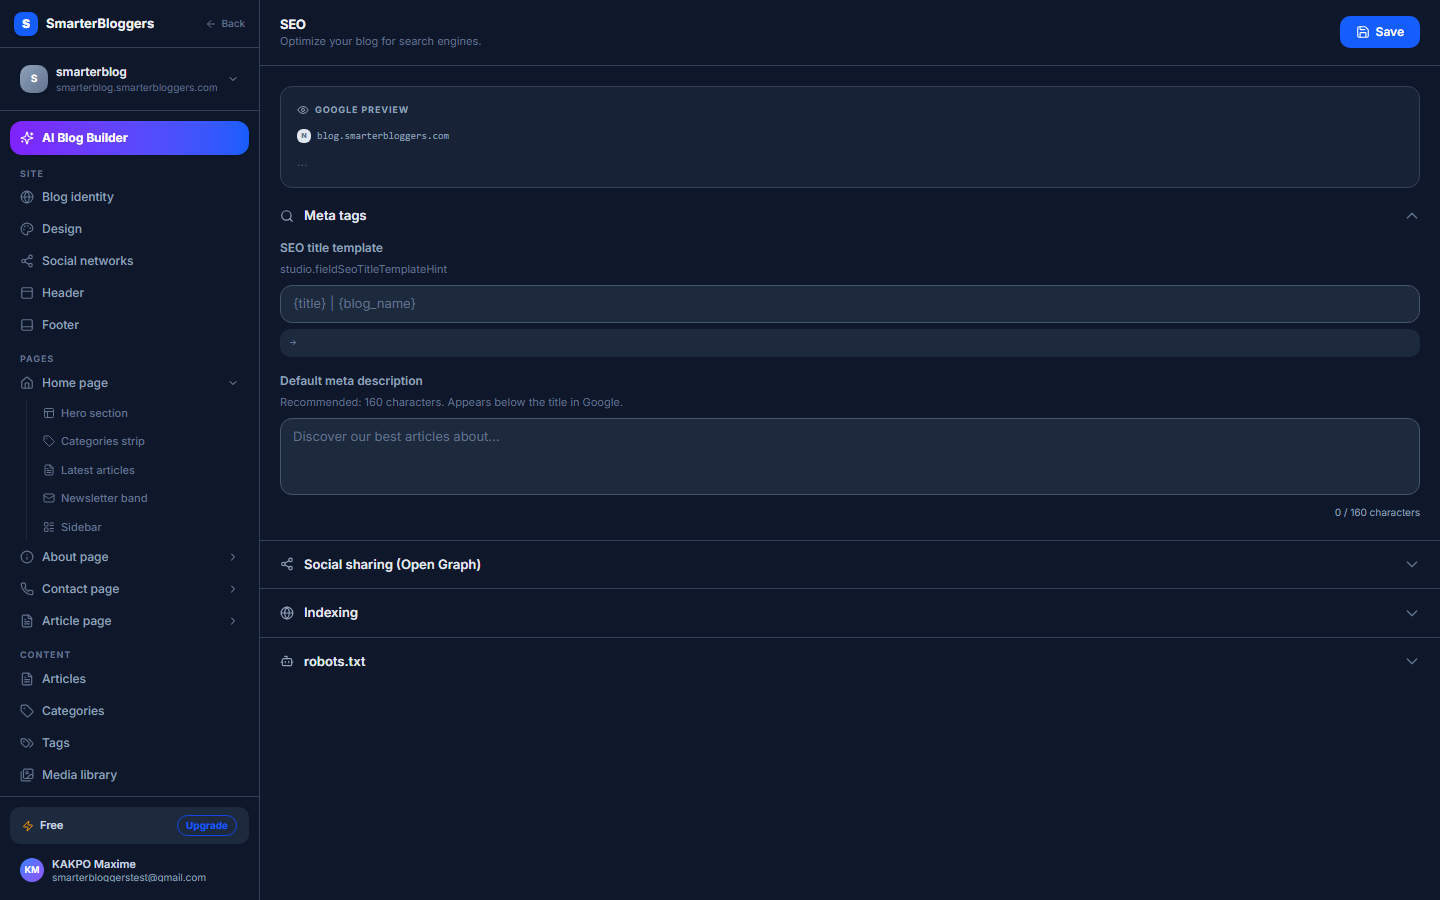
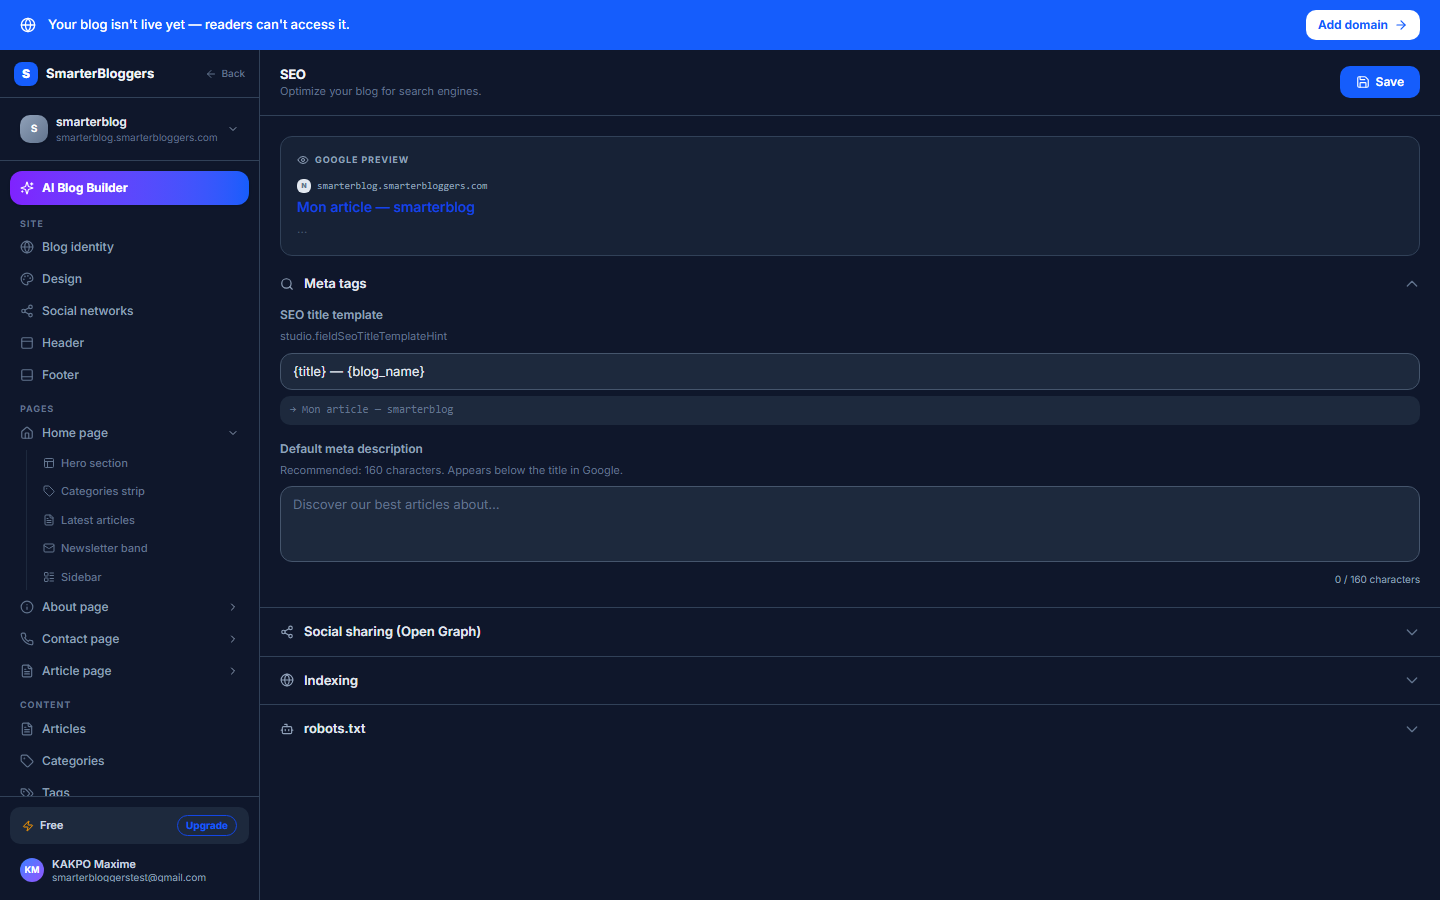
Le badge Powered by des blogs publics porte désormais le lien de parrainage du propriétaire
N'importe quel visiteur d'un blog public peut désormais s'inscrire sur
SmarterBloggers via le badge "Powered by SmarterBloggers" en bas de page,
rattaché automatiquement au code de parrainage du propriétaire du blog
(GET /public/{slug} expose owner_affiliate_code, lazy-généré comme sur le
dashboard affiliation). Corrige aussi Creative et Luminary, qui affichaient
"Powered by SmarterBloggers" en texte brut sans lien du tout.

Prochaine étape : bouton "Partager" dans le Studio pour copier un lien de
blog/article portant directement le même code.

diff --git a/frontend/src/components/themes/corporate/shared.tsx b/frontend/src/components/themes/corporate/shared.tsx
@@ -15,6 +15,7 @@ import { ShareButtons } from '../shared/ShareButtons';
 import { InlineEditable } from '../shared/InlineEditable';
 import { BlogLanguageSwitcher } from '../shared/BlogLanguageSwitcher';
 import { MobileBottomNav } from '../shared/MobileBottomNav';
+import { poweredByUrl } from '../shared/poweredByLink';
 
 // ─── Helpers ──────────────────────────────────────────────────────────────────
 
@@ -208,7 +209,7 @@ export function CardCompact({ article, href, rank }: { article: PublicArticle; h
 export function CorporateHeader({
   blog, categories, current, searchQuery, primaryColor, minimal = false, basePath, previewSlug,
 }: {
-  blog: { name: string; logo_url?: string | null; language?: string; enabled_languages?: string[]; social_links?: Record<string, string>; template_config?: { header?: { topBar?: { enabled?: boolean; showDate?: boolean; showSocial?: boolean; showNewsletter?: boolean; showRss?: boolean }; subscribe?: { enabled?: boolean; label?: string }; nav?: { links?: { label: string; url: string }[] } }; footer?: { showSocialLinks?: boolean; copyrightText?: string; showPoweredBy?: boolean } } | null };
+  blog: { name: string; logo_url?: string | null; language?: string; enabled_languages?: string[]; social_links?: Record<string, string>; owner_affiliate_code?: string | null; template_config?: { header?: { topBar?: { enabled?: boolean; showDate?: boolean; showSocial?: boolean; showNewsletter?: boolean; showRss?: boolean }; subscribe?: { enabled?: boolean; label?: string }; nav?: { links?: { label: string; url: string }[] } }; footer?: { showSocialLinks?: boolean; copyrightText?: string; showPoweredBy?: boolean } } | null };
   categories: PublicCategory[];
   current?: string;
   searchQuery?: string;
@@ -539,7 +540,7 @@ export function CorporateHeader({
                   {showPoweredBy && (
                     <p>
                       {t('poweredBy')}{' '}
-                      <a href="https://smarterbloggers.com" target="_blank" rel="noopener noreferrer" className="hover:underline" style={{ color: primaryColor }}>
+                      <a href={poweredByUrl(blog.owner_affiliate_code)} target="_blank" rel="noopener noreferrer" className="hover:underline" style={{ color: primaryColor }}>
                         SmarterBloggers
                       </a>
                     </p>
@@ -569,7 +570,7 @@ export function CorporateHeader({
 export function CorporateFooter({
   blog, categories, primaryColor, basePath, previewSlug,
 }: {
-  blog: { name: string; description?: string | null; logo_url?: string | null; social_links?: Record<string, string>; template_config?: { footer?: { description?: string; showCategories?: boolean; navLinks?: { label: string; url: string }[]; showSocialLinks?: boolean; showNewsletterMini?: boolean; newsletterMiniText?: string; copyrightText?: string; showPoweredBy?: boolean } } | null };
+  blog: { name: string; description?: string | null; logo_url?: string | null; social_links?: Record<string, string>; owner_affiliate_code?: string | null; template_config?: { footer?: { description?: string; showCategories?: boolean; navLinks?: { label: string; url: string }[]; showSocialLinks?: boolean; showNewsletterMini?: boolean; newsletterMiniText?: string; copyrightText?: string; showPoweredBy?: boolean } } | null };
   categories: PublicCategory[];
   primaryColor: string;
   basePath?: string;
@@ -704,7 +705,7 @@ export function CorporateFooter({
             />
             {showPoweredBy && (
               <span>{t('poweredBy')}{' '}
-                <a href="https://smarterbloggers.com" target="_blank" rel="noopener noreferrer"
+                <a href={poweredByUrl(blog.owner_affiliate_code)} target="_blank" rel="noopener noreferrer"
                   className="font-semibold transition-colors hover:text-white" style={{ color: primaryColor }}>
                   SmarterBloggers
                 </a>

diff --git a/frontend/src/components/themes/luminary/LuminaryShared.tsx b/frontend/src/components/themes/luminary/LuminaryShared.tsx
@@ -4,6 +4,7 @@ import Image from 'next/image';
 import Link from 'next/link';
 import { Menu, X, Twitter, Linkedin, Github, ExternalLink, Instagram, Youtube } from 'lucide-react';
 import type { BlogInfo, PublicCategory } from '@/lib/public-api';
+import { poweredByUrl } from '../shared/poweredByLink';
 import { getFetchErrorMessage } from '@/lib/utils';
 import { ShareButtons } from '../shared/ShareButtons';
 import { BlogLanguageSwitcher } from '../shared/BlogLanguageSwitcher';
@@ -193,7 +194,14 @@ export function LuminaryHeader({ blog, categories, basePath, primaryColor }: Sha
               )}
               <div className="mt-6 pt-4 border-t border-zinc-200 text-[11px] text-zinc-500 space-y-1 font-sans">
                 <p>{footerCopyright}</p>
-                {showPoweredBy && <p>Powered by SmarterBloggers</p>}
+                {showPoweredBy && (
+                  <p>
+                    Powered by{' '}
+                    <a href={poweredByUrl(blog.owner_affiliate_code)} target="_blank" rel="noopener noreferrer" className="hover:underline">
+                      SmarterBloggers
+                    </a>
+                  </p>
+                )}
               </div>
             </div>
 
@@ -350,7 +358,14 @@ export function LuminaryFooter({ blog, categories, basePath, primaryColor }: Sha
               primaryColor={primaryColor}
               variant="blog"
             />
-            {showPoweredBy && <span>Powered by SmarterBloggers</span>}
+            {showPoweredBy && (
+              <span>
+                Powered by{' '}
+                <a href={poweredByUrl(blog.owner_affiliate_code)} target="_blank" rel="noopener noreferrer" className="hover:underline">
+                  SmarterBloggers
+                </a>
+              </span>
+            )}
           </div>
         </div>
       </div>

diff --git a/frontend/src/components/themes/creative/CreativeShared.tsx b/frontend/src/components/themes/creative/CreativeShared.tsx
@@ -5,6 +5,7 @@ import Image from 'next/image';
 import { useEffect, useState } from 'react';
 import { X } from 'lucide-react';
 import type { BlogInfo, PublicCategory } from '@/lib/public-api';
+import { poweredByUrl } from '../shared/poweredByLink';
 import { ShareButtons } from '../shared/ShareButtons';
 import { BlogLanguageSwitcher } from '../shared/BlogLanguageSwitcher';
 import { MobileBottomNav } from '../shared/MobileBottomNav';
@@ -148,7 +149,14 @@ export function CreativeHeader({ blog, categories, basePath, primaryColor }: Sha
               )}
               <div className="mt-6 pt-4 border-t border-zinc-800 text-[11px] text-zinc-500 space-y-1">
                 <p>{footerCopyright}</p>
-                {showPoweredBy && <p>Powered by SmarterBloggers</p>}
+                {showPoweredBy && (
+                  <p>
+                    Powered by{' '}
+                    <a href={poweredByUrl(blog.owner_affiliate_code)} target="_blank" rel="noopener noreferrer" className="hover:underline">
+                      SmarterBloggers
+                    </a>
+                  </p>
+                )}
               </div>
             </div>
 
@@ -247,7 +255,14 @@ export function CreativeFooter({ blog, categories, basePath, primaryColor }: Sha
               primaryColor={primaryColor}
               variant="blog"
             />
-            {showPoweredBy && <span>Powered by SmarterBloggers</span>}
+            {showPoweredBy && (
+              <span>
+                Powered by{' '}
+                <a href={poweredByUrl(blog.owner_affiliate_code)} target="_blank" rel="noopener noreferrer" className="hover:underline">
+                  SmarterBloggers
+                </a>
+              </span>
+            )}
           </div>
         </div>
       </div>

diff --git a/frontend/src/components/themes/editorial/EditorialShared.tsx b/frontend/src/components/themes/editorial/EditorialShared.tsx
@@ -7,6 +7,7 @@ import type { BlogInfo, PublicCategory } from '@/lib/public-api';
 import { ShareButtons } from '../shared/ShareButtons';
 import { BlogLanguageSwitcher } from '../shared/BlogLanguageSwitcher';
 import { MobileBottomNav } from '../shared/MobileBottomNav';
+import { poweredByUrl } from '../shared/poweredByLink';
 
 interface SharedProps {
   blog: BlogInfo;
@@ -153,7 +154,7 @@ export function EditorialHeader({ blog, categories, basePath, primaryColor }: Sh
                 {showPoweredBy && (
                   <p>
                     Powered by{' '}
-                    <a href="https://smarterbloggers.com" target="_blank" rel="noopener noreferrer" className="hover:underline" style={{ color: primaryColor }}>
+                    <a href={poweredByUrl(blog.owner_affiliate_code)} target="_blank" rel="noopener noreferrer" className="hover:underline" style={{ color: primaryColor }}>
                       SmarterBloggers
                     </a>
                   </p>
@@ -257,7 +258,7 @@ export function EditorialFooter({ blog, categories, basePath, primaryColor }: Sh
             {showPoweredBy && (
               <span className="flex items-center gap-1.5">
                 Powered by{' '}
-                <a href="https://smarterbloggers.com" target="_blank" rel="noopener noreferrer" className="hover:underline" style={{ color: primaryColor }}>
+                <a href={poweredByUrl(blog.owner_affiliate_code)} target="_blank" rel="noopener noreferrer" className="hover:underline" style={{ color: primaryColor }}>
                   SmarterBloggers
                 </a>
               </span>

diff --git a/frontend/src/components/themes/magazine/MagazineShared.tsx b/frontend/src/components/themes/magazine/MagazineShared.tsx
@@ -8,6 +8,7 @@ import { getFetchErrorMessage } from '@/lib/utils';
 import { ShareButtons } from '../shared/ShareButtons';
 import { BlogLanguageSwitcher } from '../shared/BlogLanguageSwitcher';
 import { MobileBottomNav } from '../shared/MobileBottomNav';
+import { poweredByUrl } from '../shared/poweredByLink';
 
 interface SharedProps {
   blog: BlogInfo;
@@ -189,7 +190,7 @@ export function MagazineHeader({ blog, categories, basePath, primaryColor }: Sha
                 {showPoweredBy && (
                   <p>
                     Powered by{' '}
-                    <a href="https://smarterbloggers.com" target="_blank" rel="noopener noreferrer" className="hover:underline" style={{ color: primaryColor }}>
+                    <a href={poweredByUrl(blog.owner_affiliate_code)} target="_blank" rel="noopener noreferrer" className="hover:underline" style={{ color: primaryColor }}>
                       SmarterBloggers
                     </a>
                   </p>
@@ -344,7 +345,7 @@ export function MagazineFooter({ blog, categories, basePath, primaryColor }: Sha
               {showPoweredBy && (
                 <span>
                   Powered by{' '}
-                  <a href="https://smarterbloggers.com" target="_blank" rel="noopener noreferrer" className="hover:underline" style={{ color: primaryColor }}>
+                  <a href={poweredByUrl(blog.owner_affiliate_code)} target="_blank" rel="noopener noreferrer" className="hover:underline" style={{ color: primaryColor }}>
                     SmarterBloggers
                   </a>
                 </span>

diff --git a/frontend/src/components/themes/mock/data.ts b/frontend/src/components/themes/mock/data.ts
@@ -265,6 +265,7 @@ export const MOCK_BLOG_EDITORIAL: BlogInfo = {
   social_links: { twitter: 'https://twitter.com', linkedin: 'https://linkedin.com', github: 'https://github.com' },
   template_config: null,
   enabled_languages: [],
+  owner_affiliate_code: null,
 };
 
 export const MOCK_BLOG_MAGAZINE: BlogInfo = {
@@ -283,6 +284,7 @@ export const MOCK_BLOG_MAGAZINE: BlogInfo = {
   social_links: { twitter: 'https://twitter.com', linkedin: 'https://linkedin.com' },
   template_config: null,
   enabled_languages: [],
+  owner_affiliate_code: null,
 };
 
 export const MOCK_BLOG_MINIMAL: BlogInfo = {
@@ -301,6 +303,7 @@ export const MOCK_BLOG_MINIMAL: BlogInfo = {
   social_links: { twitter: 'https://twitter.com' },
   template_config: null,
   enabled_languages: [],
+  owner_affiliate_code: null,
 };
 
 export const MOCK_BLOG_CREATIVE: BlogInfo = {
@@ -319,4 +322,5 @@ export const MOCK_BLOG_CREATIVE: BlogInfo = {
   social_links: { instagram: 'https://instagram.com', twitter: 'https://twitter.com', dribbble: 'https://dribbble.com' },
   template_config: null,
   enabled_languages: [],
+  owner_affiliate_code: null,
 };

diff --git a/frontend/src/components/themes/shared/poweredByLink.ts b/frontend/src/components/themes/shared/poweredByLink.ts
@@ -1,0 +1,11 @@
+/**
+ * Le badge "Powered by SmarterBloggers" affiché sur chaque blog public
+ * pointe vers le lien de parrainage du propriétaire du blog quand il en a
+ * un — n'importe quel visiteur peut ainsi s'inscrire sur SmarterBloggers
+ * en étant rattaché à ce blogueur, sans action supplémentaire de sa part.
+ */
+export function poweredByUrl(ownerAffiliateCode: string | null | undefined): string {
+  return ownerAffiliateCode
+    ? `https://smarterbloggers.com/register?ref=${ownerAffiliateCode}`
+    : 'https://smarterbloggers.com';
+}

diff --git a/frontend/src/app/[locale]/canvas/[blogId]/page.tsx b/frontend/src/app/[locale]/canvas/[blogId]/page.tsx
@@ -170,6 +170,7 @@ export default function CanvasPage() {
     social_links: liveConfig.blog.social_links,
     template_config: liveConfig.template_config as TemplateConfig,
     enabled_languages: [],
+    owner_affiliate_code: null,
   };
 
   const editProps = {

diff --git a/frontend/src/lib/public-api.ts b/frontend/src/lib/public-api.ts
@@ -59,6 +59,7 @@ export interface BlogInfo {
   social_links: Record<string, string>;
   template_config: TemplateConfig | null;
   enabled_languages: string[];
+  owner_affiliate_code: string | null;
 }
 
 export interface PublicArticle {

diff --git a/backend/app/api/v1/public.py b/backend/app/api/v1/public.py
@@ -141,6 +141,7 @@ class PublicBlogInfo(BaseModel):
     social_links: dict
     template_config: dict | None
     enabled_languages: list[str] = []
+    owner_affiliate_code: str | None = None
 
 
 # ── GET /public/{slug} — info blog ───────────────────────────────
@@ -158,6 +159,19 @@ async def get_blog_info(slug: str, db: DBSession, lang: str | None = Query(defau
         if translated is not None:
             template_config = translated
 
+    # Permet à n'importe quel visiteur du blog public de s'inscrire sur
+    # SmarterBloggers via le lien de parrainage du propriétaire (badge
+    # "Powered by" + fonctionnalité "Partager" du Studio, voir tenants.py).
+    owner_affiliate_code = None
+    from app.services.tenant_service import get_tenant_owner_user_id
+    owner_user_id = await get_tenant_owner_user_id(db, tenant.id)
+    if owner_user_id:
+        from app.api.v1.affiliate import _get_or_create_affiliate_code
+        from app.models.user import User
+        owner = await db.get(User, owner_user_id)
+        if owner:
+            owner_affiliate_code = await _get_or_create_affiliate_code(db, owner)
+
     return PublicBlogInfo(
         id=str(tenant.id),
         name=tenant.name,
@@ -174,6 +188,7 @@ async def get_blog_info(slug: str, db: DBSession, lang: str | None = Query(defau
         social_links=tenant.social_links or {},
         template_config=template_config,
         enabled_languages=allowed_languages,
+        owner_affiliate_code=owner_affiliate_code,
     )
 
 
